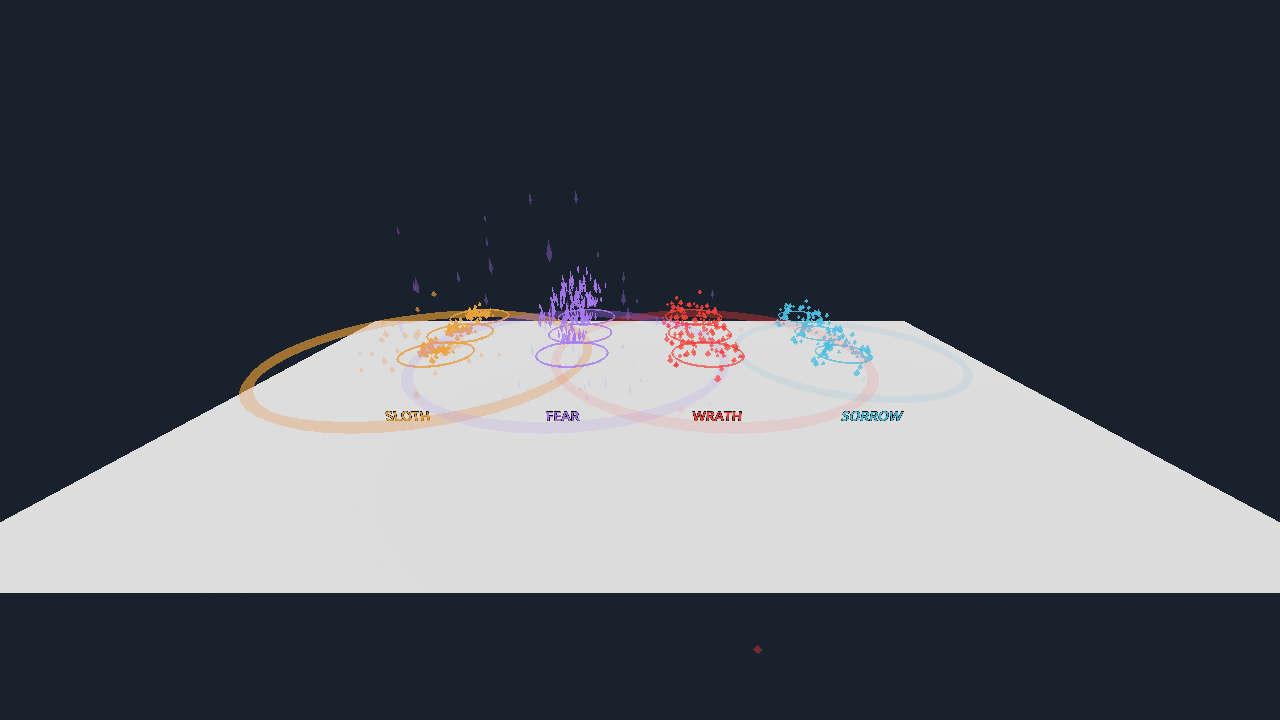
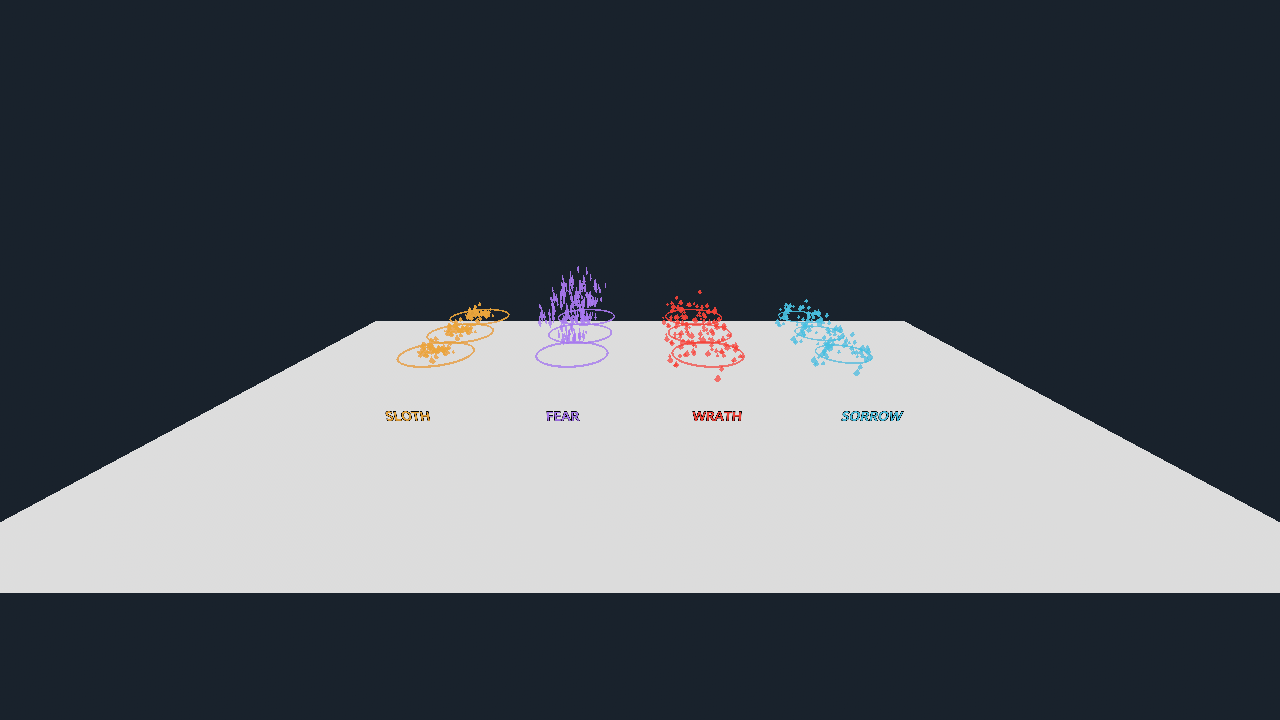
Prewarm crystal pipelines and separate GPU capture from timing (#168)

diff --git a/docs/proof/issue-168/README.md b/docs/proof/issue-168/README.md
@@ -2,17 +2,19 @@
 
 生产四系 Enemy（及继承的领域 Boss）用 `sin_type` 标识；Health 的真实 `after_damage` 才产生受击/死亡碎片。Hitbox 同步传播真实位置和方向，友伤、免疫及重复死伤不产生反馈。破绽、延爆、撞墙和泪晶使用既有 BoonManager 事件；同一命中不会由 Hitbox 和 Enemy 各发一次。
 
-暖琥珀低重力慢飘、冷紫细长定向碎片、绯红余烬及墙面两秒灼环、苍蓝晶滴和扩散水环。全部为原创代码生成的八面体平面法线网格；无第三方素材。`CrystalBurst.prepare` 在 RealmStage 播种前准备 48 个 GPU emitter，战斗只借还。Godot 的 GPUParticles3D 构造会消耗全局 RNG，因此不能在命中时临时 new，也不能在池耗尽时 fallback 创建。满池跳过纯视觉效果，随场景完整释放。
+暖琥珀低重力慢飘、冷紫细长定向碎片、绯红余烬及墙面两秒灼环、苍蓝晶滴和扩散水环。全部为原创代码生成的八面体平面法线网格；无第三方素材。`CrystalBurst.prepare` 在 RealmStage 播种前准备 48 个 GPU emitter，战斗只借还。每色12个；预先配置44粒子容量、材质、网格和梯度，受击改amount_ratio避免重建GPU缓冲。房间加载前四帧以透明粒子及环波预热渲染管线，此窗口跳过纯视觉反馈、不影响伤害；正式借出时显示并重启。Godot 的 GPUParticles3D 构造会消耗全局 RNG，因此不能在命中时临时 new，也不能在池耗尽时 fallback 创建。满池跳过纯视觉效果，随场景完整释放。
 
 ## 验证
 
 - Godot 4.7.2，`crystal_feedback_test.tscn`：28 项通过、0 失败、无引擎错误；四系真实受击/死亡、友伤、重复死伤、真实接触、全局随机序列、池上限、暂停、场景退出与复用。
-- `crystal_feedback_bench.tscn`：Windows NVIDIA RTX 4060 Laptop、Vulkan Forward+，1280×720，固定模拟步长60；12 emitter / 528 GPU 碎片，121帧实测 p50 5.558 ms、p95 5.742 ms、最大177.507 ms。
+- `crystal_feedback_bench.tscn`：Windows NVIDIA RTX 4060 Laptop、Vulkan Forward+，1280×720，固定模拟步长60；性能默认不截图，`-- --capture`是独立截图模式。
+- 最终无截图采样：12 emitter / 528 GPU碎片，121帧 p50 5.556 ms、p95 6.265 ms、最大9.954 ms；首爆同为9.954 ms，12次spawn合计CPU8.083 ms。原始逐帧值在 `performance.json`；前一次无截图独立进程为p95 6.387 ms、最大11.645 ms。
+- 加载预热58帧单列：p95 11.506 ms、最大22.910 ms。这些是新引擎进程实测，不声称已清空驱动shader cache。
 - 原生图 `four-crystal-bursts.png` 已打开检查：四种配色/几何/速度差异与环波实际可见。
 - 初版 RNG 检查失败已保留原始日志；fixed_seed 单独不足，改播种前预建池后通过。
 
 ## 边界
 
-首次爆发存在177.507 ms尖峰，不能承诺所有帧不掉帧；这不是已通过的广泛性能验收。截图使用独立展示台，真实敌人接线由行为测试覆盖，不冒充人工完整战役试玩。
+**更正原性能解释**：旧 `native.log` 的177.507 ms和预热后的 `capture-with-readback.log` 145.432 ms均在采样窗口第75帧执行了同步GPU截图读回与PNG写盘。它们是受采集影响的结果，不能归因为首次战斗爆发。已把采图和计时拆成独立进程，保留旧日志，没有删除离群帧来改善统计。当前战斗采样窗口全部低于16.67 ms；加载预热仍有22.910 ms峰值，且不承诺其他硬件或更复杂全关卡一律不掉帧。截图使用独立展示台，真实敌人接线由行为测试覆盖，不冒充人工完整战役试玩。
 
 顿帧由 UI 的 BoonHitstop 接既有事件，排除 fixture、暂停、死亡；该小提交由集成负责人添加到同一 issue 的 PR。泪晶拾取的真实 `sorrow_tear_collected` 事件由 #179 提供，#168 接收端已兼容；切碎事件无需该依赖。
